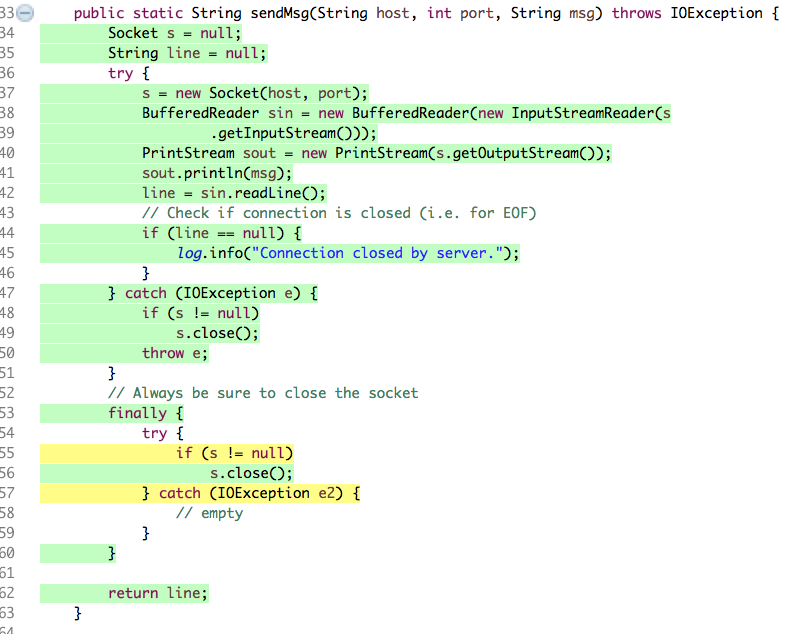
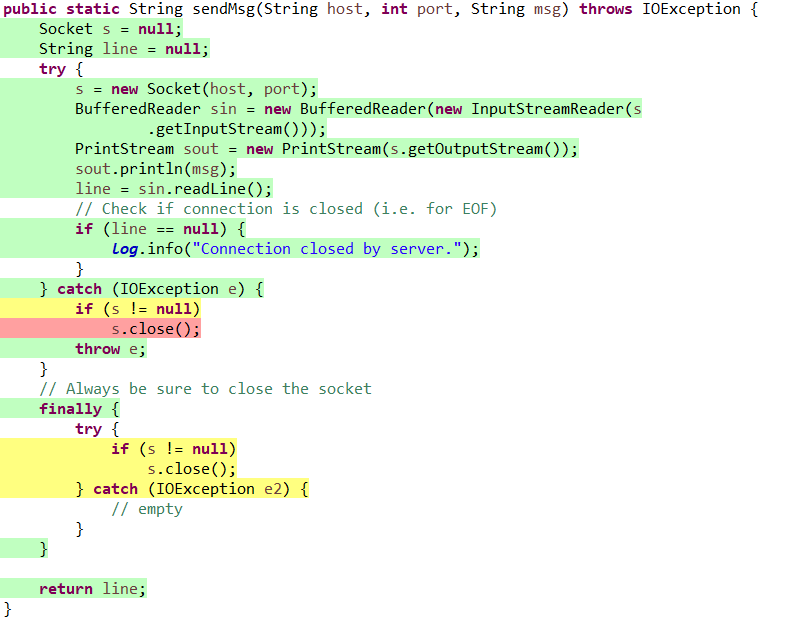
removed extra testcase and completed pdf

Changed region(s): [[0.0, 0.0, 1.0, 1.0]]

diff --git a/docs/Latex/a2.tex b/docs/Latex/a2.tex
@@ -377,7 +377,40 @@ The following is the code snippet for the \emph{isAfter} function:
 \item the third argument \emph{msg} is the message that should be sent over to the host and port given.
 \end{itemize}
 
-\item \textbf{Statement Coverage Using Black-Box Methods}: \\ 82\%  [refer to Figures 1 \& 2]
+\item \textbf{Statement Coverage Using Original Black-Box Methods}: \\ 82\%  [refer to Figures 1 \& 2]
+\item \textbf{Statement Coverage Including Additional Testcases}: \\ 88.5\% [refer to Figures 3 \& 4]
+
+\item \textbf{Branch Coverage Using Original Testcases}: \\ 50\% (4/8) [refer to Figures 5]
+\item \textbf{Branch Coverage Including Additional Testcases}: \\ 62.5\% (5/8) [refer to Figure 6]
+
+\item \textbf{The Additional Tests}: The additional tests that were added needed to cause exceptions or pass null values to the method, these two cases are not quantifiable. Thus, our original boundary value testing testsuite needed more testcases to increase coverage. The added function is further described below:
+\begin{itemize}
+\item The testcase considered if the message String sent was null. There is a null checking branch path that gets executed due to this testcase. Also, this causes an IOException to be thrown because the InputStream attempts to read in a null String.
+\end{itemize}
+\item \textbf{Why not 100\%?}: In the \emph{sendMsg} function there are two try catches to handle IOExceptions. To be able to get both innner exception segments 1 and 2 fully covered, a more granuallar approach using sockets and concurrency would be needed. At that point you are not testing the code, but rather how Java handles socket connections.
+\\
+\textbf{Segment 1}
+    \begin{code}
+    } catch (IOException e) {
+            if (s != null)
+                s.close();
+            throw e;
+    }
+    \end{code} 
+\textbf{Segment 2}
+    \begin{code}
+    finally {
+            try {
+                if (s != null)
+                    s.close();
+            } catch (IOException e2) {
+                // empty
+            }
+        }
+    \end{code} 
+
+\end{itemize}
+
 \begin{figure}[!htb]
 \begin{center}
 \includegraphics[width=.99\textwidth]{images/wbt/bvt/figure1.png}
@@ -393,22 +426,37 @@ The following is the code snippet for the \emph{isAfter} function:
 \label{fig:wbt_bvt_code}
 \end{figure}
 
-\item \textbf{Final Statement Coverage Using Additional Testcases}: \\ 96.7\% [refer to Figures 3 \& 4]
 \begin{figure}[!htb]
 \begin{center}
 \includegraphics[width=.99\textwidth]{images/wbt/bvt/figure3.png}
 \end{center}
-\caption{Statement Coverage View for the sendMsg function after additional testcases}
+\caption{Statement Coverage View for the sendMsg function after adding additional testcases}
 \label{fig:wbt_bvt_code}
 \end{figure}
 \begin{figure}[!htb]
 \begin{center}
 \includegraphics[width=.99\textwidth]{images/wbt/bvt/figure4.png}
 \end{center}
-\caption{Statement Coverage Metrics for the sendMsg function after additional testcases}
+\caption{Statement Coverage Metrics for the sendMsg function after adding additional testcases}
 \label{fig:wbt_bvt_code}
 \end{figure}
 
+\begin{figure}[!htb]
+\begin{center}
+\includegraphics[width=.99\textwidth]{images/wbt/bvt/figure5.png}
+\end{center}
+\caption{Branch Coverage Metrics for the sendMsg function before adding additional testcases}
+\label{fig:wbt_bvt_code}
+\end{figure}
+\begin{figure}[!htb]
+\begin{center}
+\includegraphics[width=.99\textwidth]{images/wbt/bvt/figure6.png}
+\end{center}
+\caption{Branch Coverage Metrics for the sendMsg function after adding additional testcases}
+\label{fig:wbt_bvt_code}
+\end{figure}
+
+<<<<<<< HEAD
 \item \textbf{The Additional Statements}: The additional tests added to increase line coverage needed to cause exceptions or pass values to the method which were not quantifiable. Thus, our original boundary value testing testcases needed more methods to increase coverage. The two added functions are further described below:
 \begin{itemize}
 \item One testcase considered if the message string sent was null. There is a null checking branch path that gets executed due to this testcase.
@@ -417,5 +465,10 @@ The following is the code snippet for the \emph{isAfter} function:
 \item \textbf{Why not 100\%?}: In the \emph{sendMsg} function there is a statement which 
 \end{itemize}
 >>>>>>> 7a3b6fe... pls check that coverage is now 96.7%
+<<<<<<< HEAD
 >>>>>>> f9f2a58... pls check that coverage is now 96.7%
+=======
+=======
+>>>>>>> fa5c41e... removed extra testcase and completed pdf
+>>>>>>> a0e8cf3... removed extra testcase and completed pdf
 \end{document}

diff --git a/src/BORGCalendar/common/test/eecs4313a2w/EECS4313A2AllWhiteBoxTests.java b/src/BORGCalendar/common/test/eecs4313a2w/EECS4313A2AllWhiteBoxTests.java
@@ -279,7 +279,7 @@ public class EECS4313A2AllWhiteBoxTests implements SocketHandler {
 	 * ADDITIONAL TESTCASES TO HIT MORE COVERAGE
 	 */
     //hits line 44/45 increases coverage to 88.5%
-    @Test(expected = Exception.class)
+    @Test
     public void throwExceptionTest() {
     String msg = null;
     SocketServer ss;
@@ -287,29 +287,14 @@ public class EECS4313A2AllWhiteBoxTests implements SocketHandler {
         try {
             ss = new SocketServer(2920, null);
             response = SocketClient.sendMsg("localhost", 2920, msg);
-            assertTrue("Testing if a localhost on port port_max sends a message", response.equals(msg));
+            assertEquals("Testing if a localhost on port port_max sends a message", response,msg);
         } catch (IOException e) {
             // TODO Auto-generated catch block
             e.printStackTrace();
         }
     }
     
-    //hits line 48,49 increases coverage to 96.7%
-    @Test
-    public void enterExceptionTest() {
-    String msg = "me";
-    SocketServer ss;
-    String response;
-        try {
-            ss = new SocketServer(2928, this);
-            ss.stop(new IOException());
-            response = SocketClient.sendMsg("localhost", 2928, msg);
-            assertTrue("Testing if a localhost on port port_max sends a message", response.equals(msg));
-        } catch (IOException e) {
-            // TODO Auto-generated catch block
-            e.printStackTrace();
-        }
-    }
+
     
     @Test
     public void testIsAfter() {
